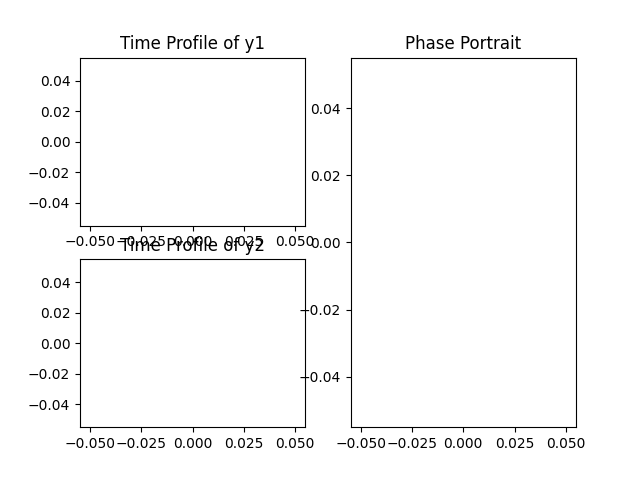
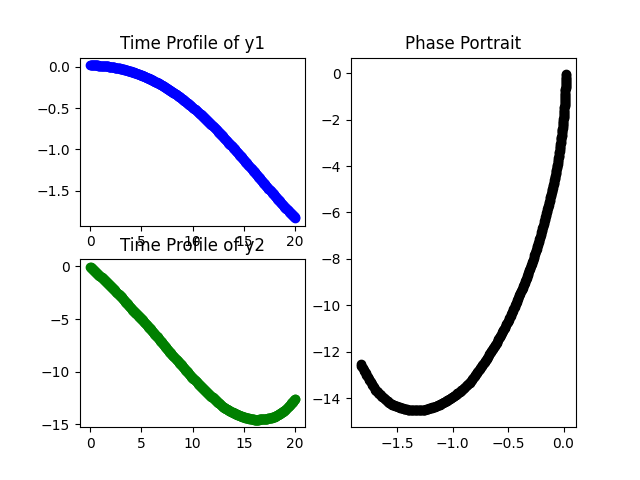
changed vdp and added run file for pod_ilqr_vdp

diff --git a/Iterative_LQR (iLQR)/src/main_pod_ilqr.py b/Iterative_LQR (iLQR)/src/main_pod_ilqr.py
@@ -4,7 +4,8 @@ from main_ilqr import iLQR
 
 class POD_iLQR(iLQR):
 
-    def __init__(self, MODEL, n_x, n_u, alpha, horizon, init_state, final_state, n_z, q, q_u):
+    def __init__(self, MODEL, n_x, n_u, alpha, horizon, init_state, final_state, n_z, q, q_u, Q, Q_final, R, 
+                 nominal_init_stddev, n_sys_id_samples, pert_sys_id_sigma, arma_sys_id_flag = True):
         self.n_z = n_z
         self.q = q
         self.q_u = q_u
@@ -14,7 +15,8 @@ class POD_iLQR(iLQR):
         self.V_zz = np.zeros((self.N, n_z*q+self.n_u*(q_u-1), n_z*q+self.n_u*(q_u-1)))
         self.V_z = np.zeros((self.N, n_z*q+self.n_u*(q_u-1), 1))
 
-        iLQR.__init__(self,MODEL, n_x, n_u, alpha, horizon, init_state, final_state)
+        iLQR.__init__(self, MODEL, n_x, n_u, alpha, horizon, init_state, final_state, 
+                      Q, Q_final, R, nominal_init_stddev, n_sys_id_samples, pert_sys_id_sigma, arma_sys_id_flag = arma_sys_id_flag)
 
     def backward_pass(self):
         ################## defining local functions & variables for faster access ################
@@ -32,7 +34,8 @@ class POD_iLQR(iLQR):
 
         # TEST CODE
         del_J_alpha, b_pass_success_flag = partials_list(self.X_p_0, self.U_p, V_z, V_zz, del_J_alpha)
-        A_aug, B_aug, V_z_F_XU_XU, traj = self.sys_id(x_0, u_nom, central_diff=1, V_z=V_z)
+        A_aug, B_aug, V_z_F_XU_XU, traj = self.ltv_sys_id.traj_sys_id_state_pertb(np.concatenate((self.X_0.reshape(1, self.n_x, 1), self.X), axis=0), self.U)
+        # A_aug, B_aug, V_z_F_XU_XU, traj = self.sys_id(x_0, u_nom, central_diff=1, V_z=V_z)
 
         # for t in range(self.N-1, -1, -1):
         for t in range(self.N-1, max(self.q, self.q_u)-1, -1):

diff --git a/Iterative_LQR (iLQR)/examples/vdp/run_vdp_pod_ilqr.py b/Iterative_LQR (iLQR)/examples/vdp/run_vdp_pod_ilqr.py
@@ -21,11 +21,12 @@ from ltv_sys_id import LTV_SysID
 
 class RunVdp(SimulateVDP):
 
-    def __init__(self, mu, state_dimension, control_dimension, dt):
+    def __init__(self, mu, state_dimension, control_dimension, dt, C):
         SimulateVDP.__init__(self, mu, state_dimension, control_dimension, dt)
+        self.C = C
 
     def simulate(self,x,u):
-        return self.simulate_vdp(x, u)[-1]
+        return self.C*self.simulate_vdp(x, u)[-1]
 
 
 if __name__=="__main__":
@@ -49,14 +50,15 @@ if __name__=="__main__":
     print('Goal phase : \n', final_state)
 	
     # No. of ILQR iterations to run
-    n_iterations = 100
+    n_iterations = 10
+    C = np.array([1.0, 0])
 
     # Create model instance
-    run_vdp = RunVdp(mu, state_dimension, control_dimension, dt)
+    run_vdp = RunVdp(mu, state_dimension, control_dimension, dt, C)
 
     # Create iLQR instance
     ilqr = iLQR(run_vdp, state_dimension, control_dimension, alpha, horizon, init_state, final_state, Q, Q_final, R, 
-                nominal_init_stddev, n_sys_id_samples=100, pert_sys_id_sigma=1e-5)
+                nominal_init_stddev, n_sys_id_samples=500, pert_sys_id_sigma=1e-7)
     ilqr.iterate_ilqr(n_iterations)
 
     ilqr.plot_episodic_cost_history(path_to_training_cost_fig)

diff --git a/Iterative_LQR (iLQR)/src/main_ilqr.py b/Iterative_LQR (iLQR)/src/main_ilqr.py
@@ -1,7 +1,7 @@
 import numpy as np
 import matplotlib.pyplot as plt
 import json
-
+np.random.seed(42)
 from progressbar import *
 
 class iLQR:
@@ -99,7 +99,7 @@ class iLQR:
         # Initialize before forward pass
         del_J_alpha = 0
 
-        Fx_Fu = self.ltv_sys_id.traj_sys_id_state_pertb(self.X[0:], self.U)
+        Fx_Fu = self.ltv_sys_id.traj_sys_id_state_pertb(np.concatenate((self.X_0.reshape(1, self.n_x, 1), self.X), axis=0), self.U)
 
         for t in range(self.N-1, -1, -1):
             F_x = Fx_Fu[t][:,:self.n_x]
@@ -110,7 +110,7 @@ class iLQR:
                 # F_u = Fx_Fu[:,self.n_x:]
                 Q_x, Q_u, Q_xx, Q_uu, Q_ux = self.get_gradients(F_x,F_u,self.X[t-1],self.U[t],V_x[t], V_xx[t])
             else:
-                # Fx_Fu = self.ltv_sys_id.sys_id_state_pertb(self.X_0, self.U[t])
+                # Fx_Fu = self.ltv_sys_id.sys_id_state_pertb(self.X_0, self.U[0])
                 # F_x = Fx_Fu[:,:self.n_x]
                 # F_u = Fx_Fu[:,self.n_x:]
                 Q_x, Q_u, Q_xx, Q_uu, Q_ux = self.get_gradients(F_x,F_u,self.X_0,self.U[0],V_x[0], V_xx[0])

diff --git a/Iterative_LQR (iLQR)/src/ltv_sys_id.py b/Iterative_LQR (iLQR)/src/ltv_sys_id.py
@@ -1,6 +1,7 @@
 import numpy as np
 import math
 import sys
+np.random.seed(42)
 
 class LTV_SysID:
 
@@ -46,8 +47,6 @@ class LTV_SysID:
 
     def traj_sys_id_state_pertb(self,x_nom,u_nom):
         traj_AB = []
-        # print(x_nom.shape, u_nom.shape)
-        # sys.exit()
         for i in range(u_nom.shape[0]):
             traj_AB.append(self.sys_id_state_pertb(x_nom[i],u_nom[i]))
         

diff --git a/Iterative_LQR (iLQR)/examples/vdp/vdp_params.py b/Iterative_LQR (iLQR)/examples/vdp/vdp_params.py
@@ -14,7 +14,7 @@ R = .05*np.eye(control_dimension)
 
 # Number of substeps in simulation
 ctrl_state_freq_ratio = 1
-dt = 0.1
+dt = 0.01
 horizon = 20 #800
 nominal_init_stddev = 0.1
 
